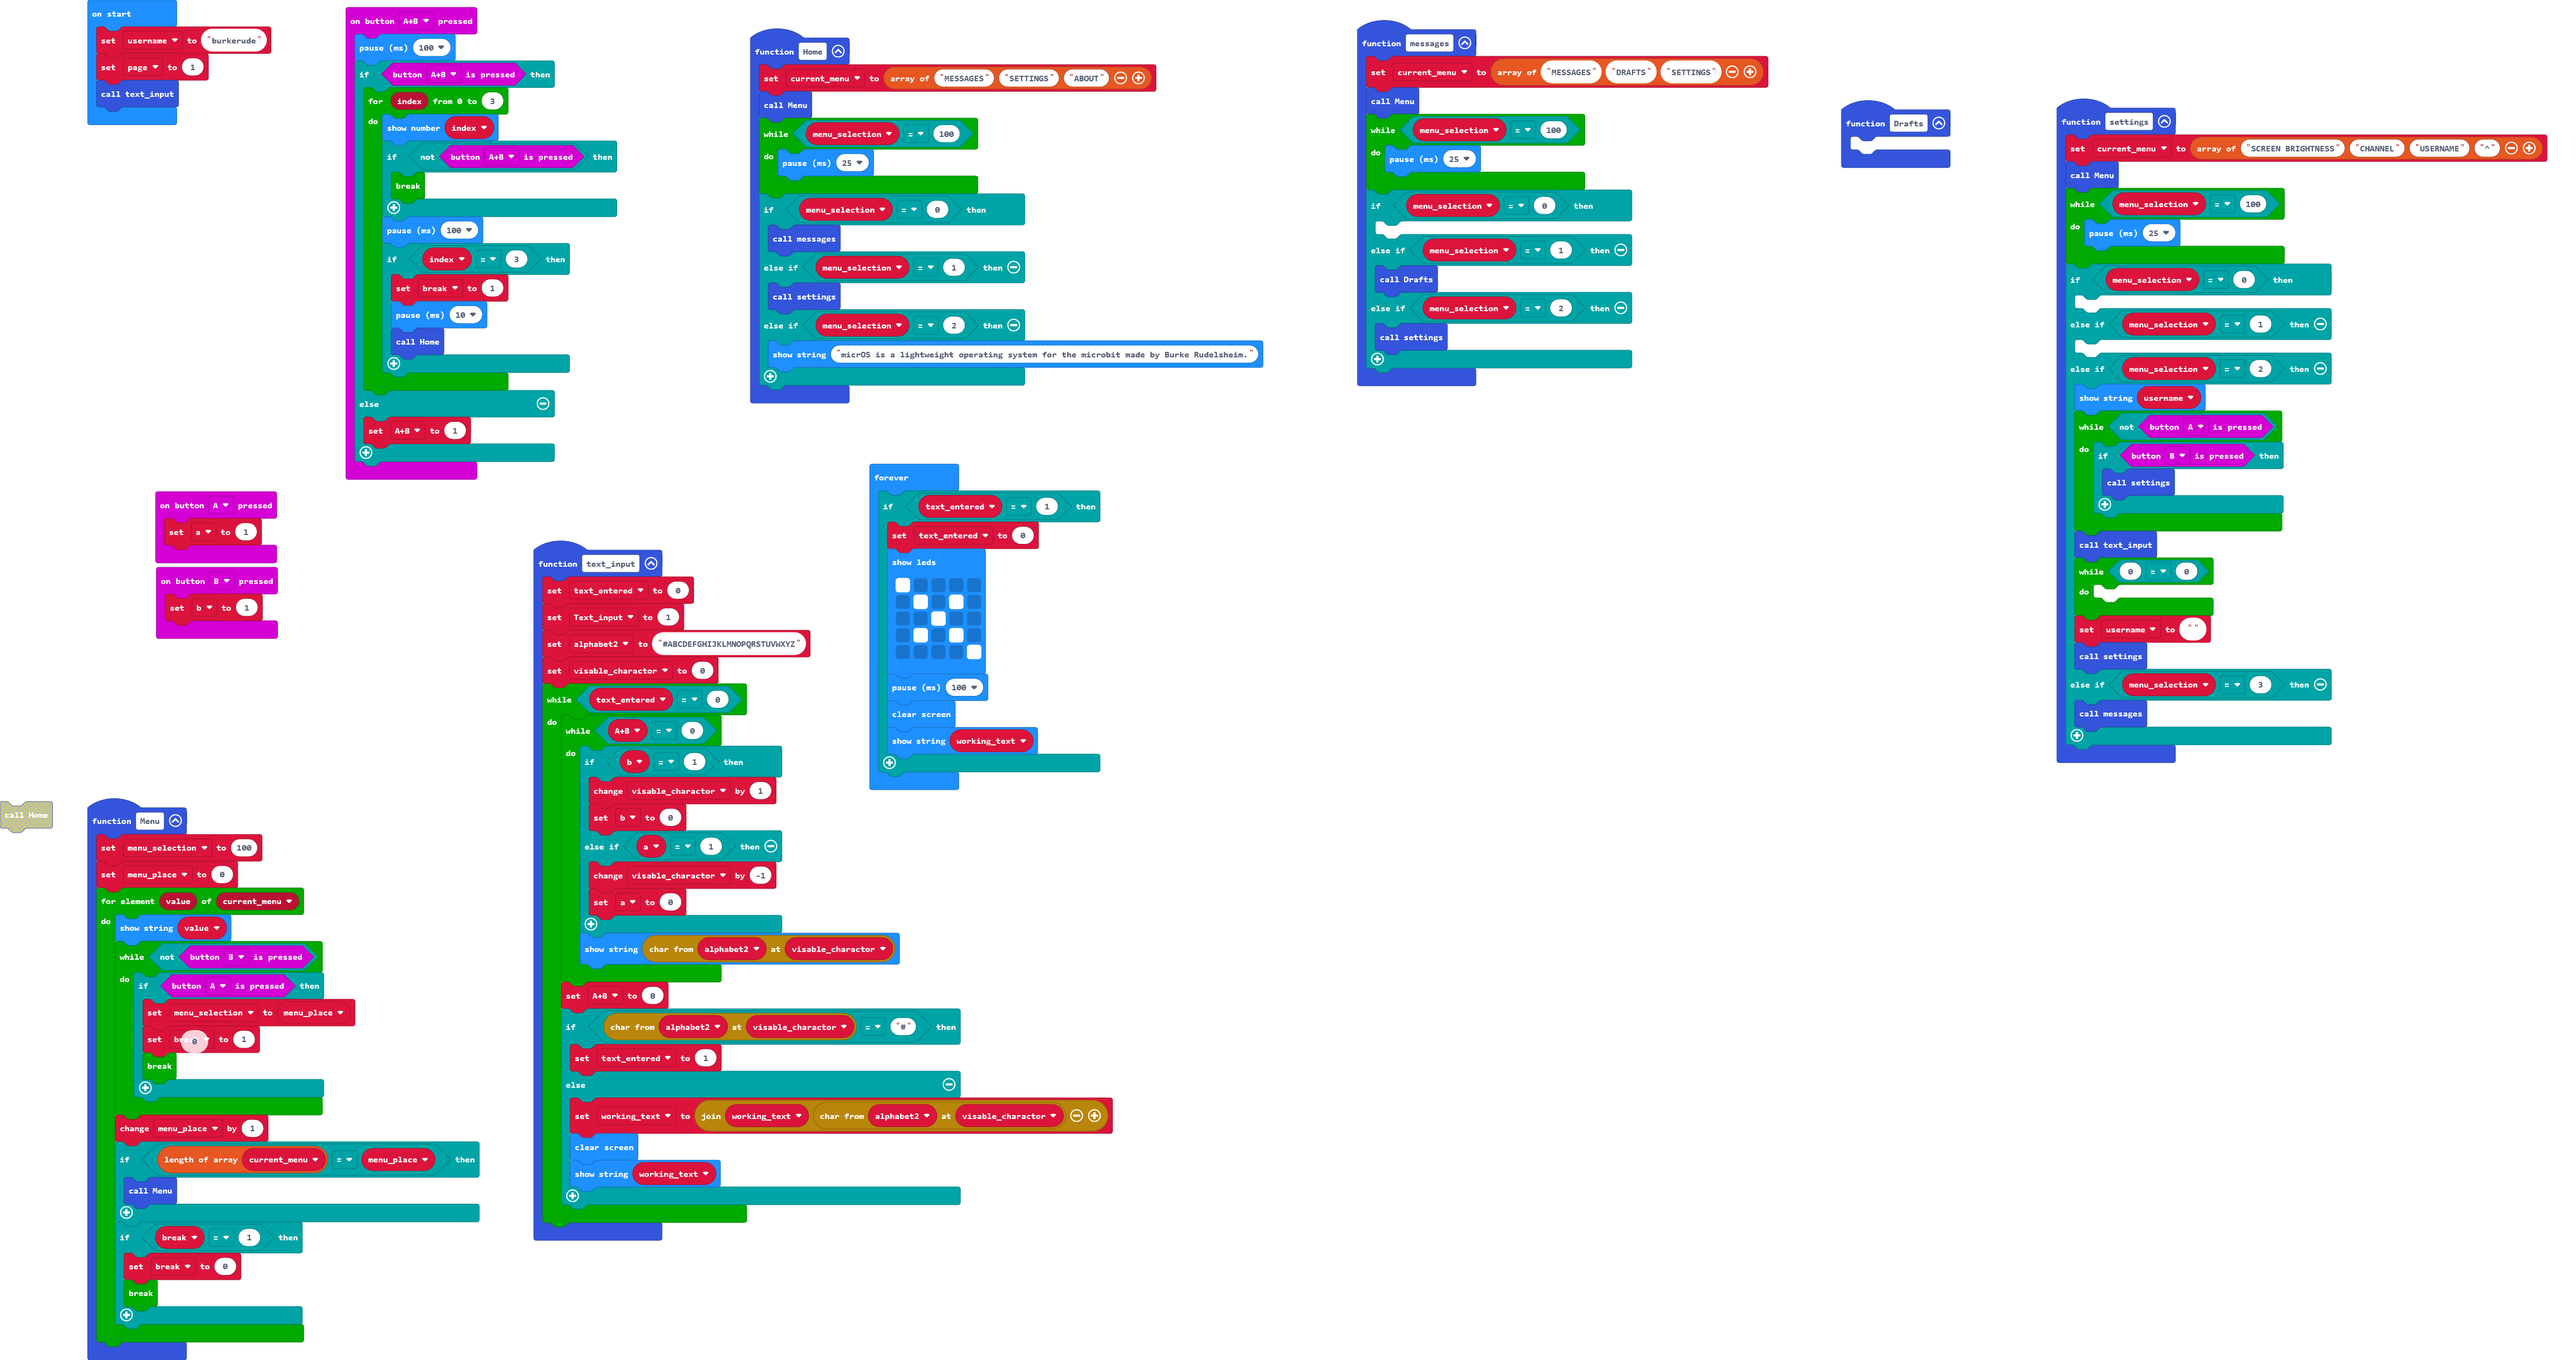
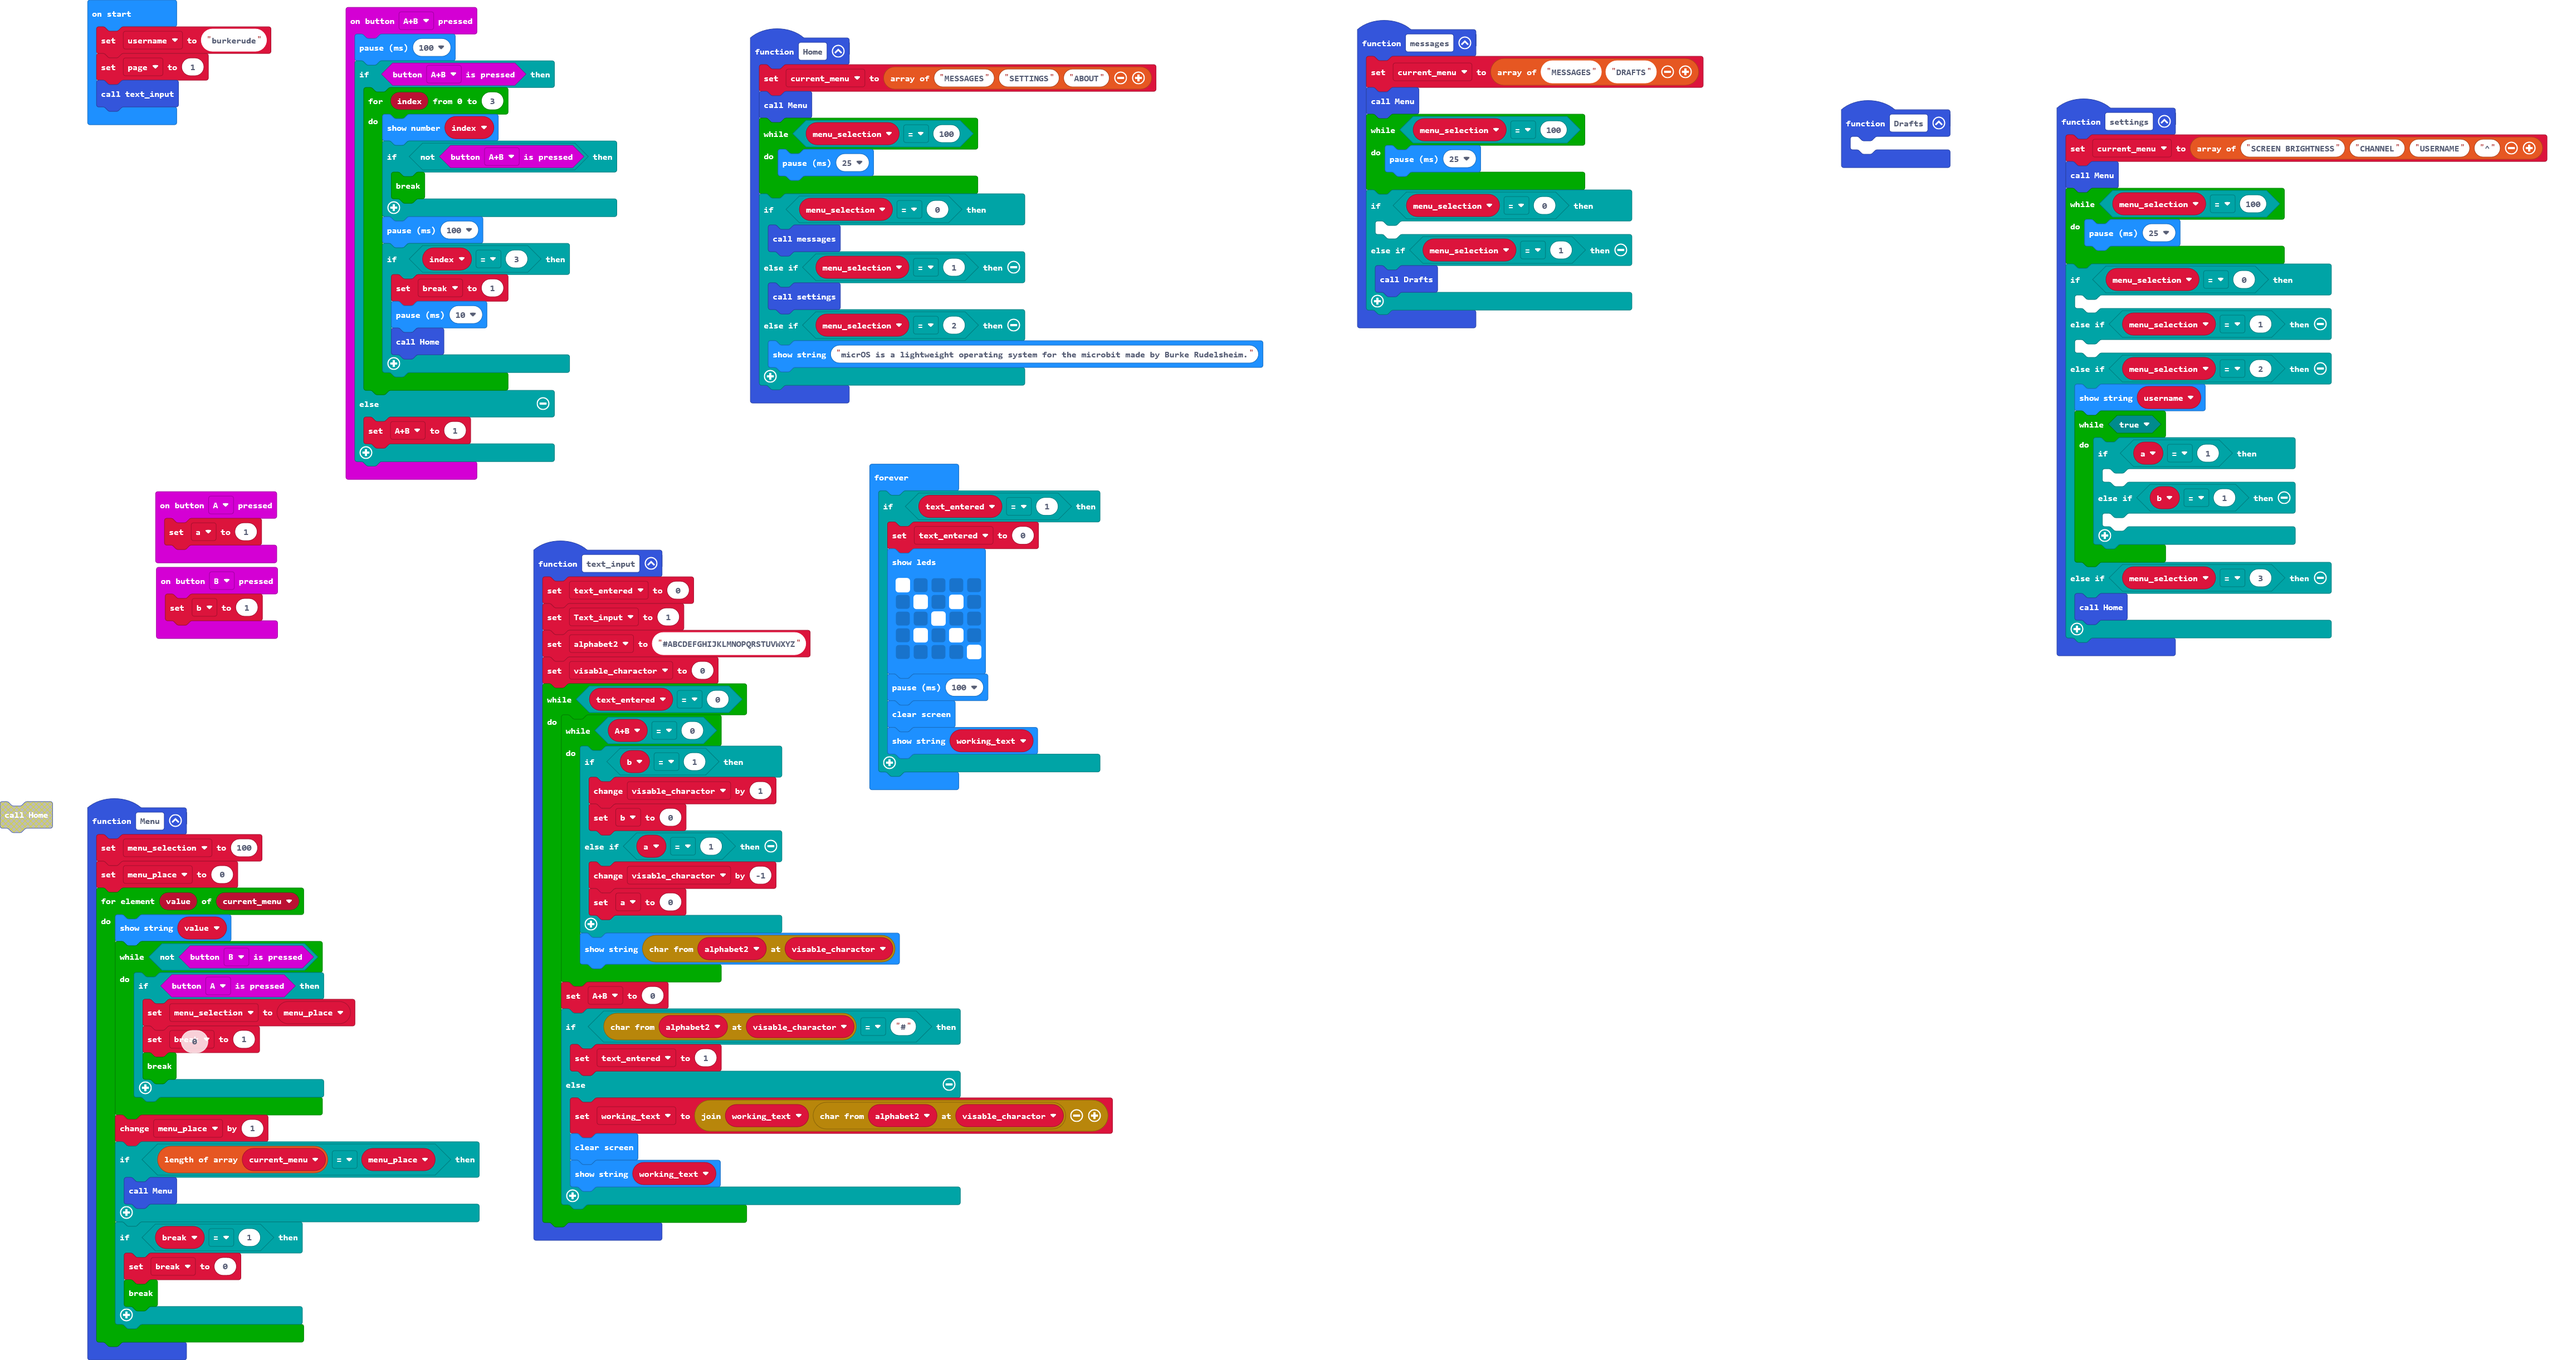
Update main.blocks, main.ts

Changed region(s): [[0.7784, 0.28, 0.9029, 0.56], [0.5293, 0.2178, 0.6538, 0.3111], [0.6227, 0.0311, 0.685, 0.0622]]

diff --git a/main.ts b/main.ts
@@ -27,19 +27,15 @@ function settings () {
     	
     } else if (menu_selection == 2) {
         basic.showString("" + (username))
-        while (!(input.buttonIsPressed(Button.A))) {
-            if (input.buttonIsPressed(Button.B)) {
-                settings()
+        while (true) {
+            if (a == 1) {
+            	
+            } else if (b == 1) {
+            	
             }
         }
-        text_input()
-        while (0 == 0) {
-        	
-        }
-        username = ""
-        settings()
     } else if (menu_selection == 3) {
-        messages()
+        Home()
     }
 }
 function Drafts () {
@@ -65,7 +61,7 @@ input.onButtonPressed(Button.AB, function () {
     }
 })
 function messages () {
-    current_menu = ["MESSAGES", "DRAFTS", "SETTINGS"]
+    current_menu = ["MESSAGES", "DRAFTS"]
     Menu()
     while (menu_selection == 100) {
         basic.pause(25)
@@ -74,8 +70,6 @@ function messages () {
     	
     } else if (menu_selection == 1) {
         Drafts()
-    } else if (menu_selection == 2) {
-        settings()
     }
 }
 input.onButtonPressed(Button.B, function () {
@@ -135,9 +129,9 @@ let alphabet2 = ""
 let Text_input = 0
 let text_entered = 0
 let menu_place = 0
-let b = 0
 let AB = 0
 let _break = 0
+let b = 0
 let menu_selection = 0
 let current_menu: string[] = []
 let a = 0
